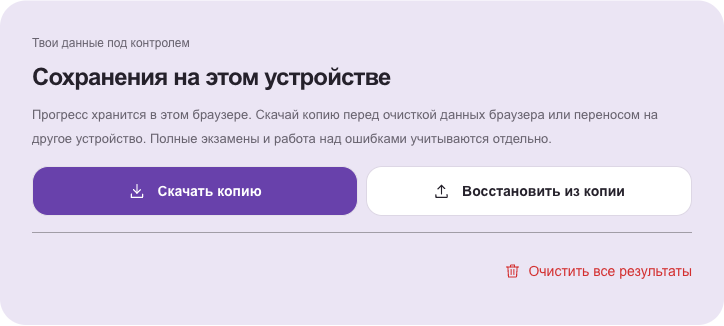
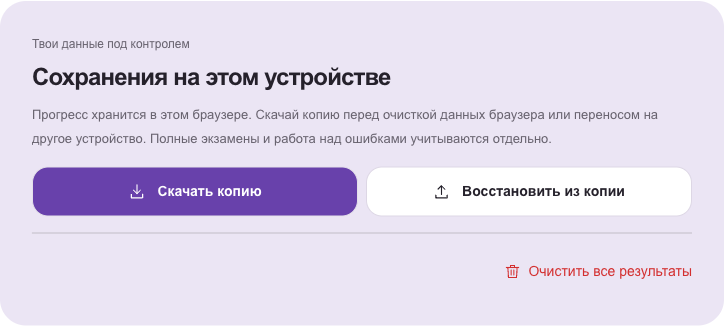
fix(history): soften light storage divider
* Reduce light-theme divider contrast
* Refresh tablet preview

diff --git a/src/styles.css b/src/styles.css
@@ -8111,7 +8111,7 @@ input[type='search']::-webkit-search-cancel-button:active {
   border-top: 1px solid var(--line);
 }
 html:not([data-theme='dark']) .history-page .data-clear-actions {
-  border-color: color-mix(in srgb, var(--line) 65%, var(--ink));
+  border-color: color-mix(in srgb, var(--line) 82%, var(--ink));
 }
 .history-page .data-clear-actions .data-clear-link {
   min-height: 44px;
